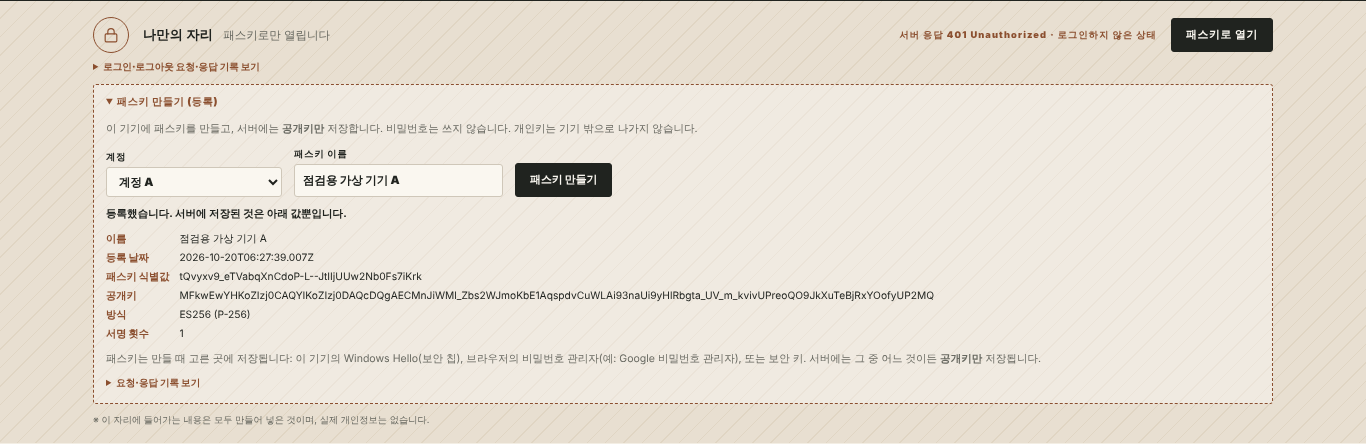
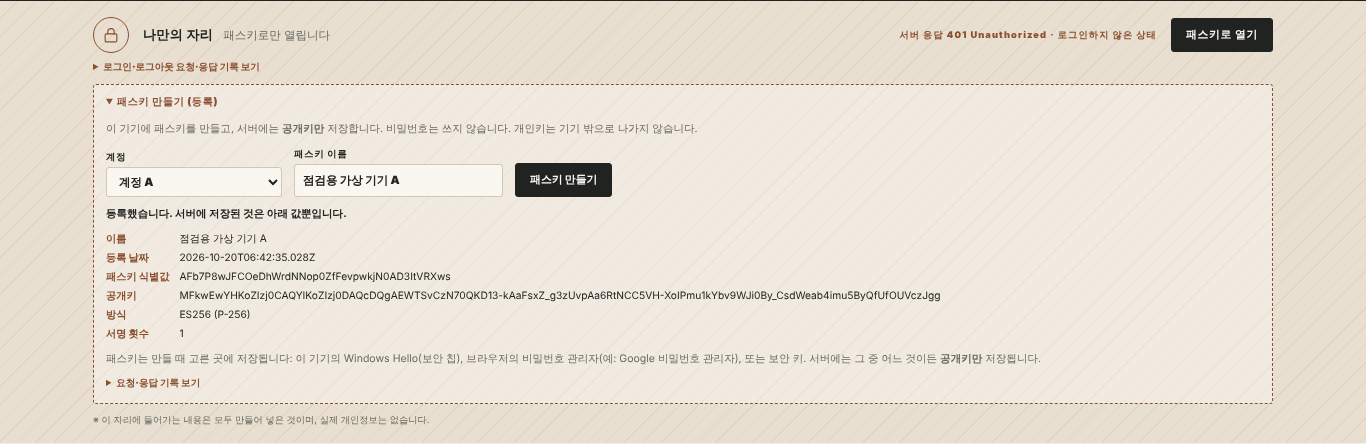
Card 4: passkey list/delete UI, last-passkey rule, local test (20 checks)
Claude-Session: https://claude.ai/code/session_01NF2Pv148mAAi3rFhZJToMv

Changed region(s): [[0.123, 0.6149, 0.7072, 0.6734], [0.1845, 0.5563, 0.246, 0.5856]]

diff --git a/index.html b/index.html
@@ -171,6 +171,13 @@
     .vault-msg{margin:6px 0 0;font-size:.66rem;font-weight:700;color:var(--charcoal)}.vault-msg.err{color:#a14a00}
     .vault-bar{display:flex;flex-wrap:wrap;gap:6px 12px;align-items:center;margin:0 0 4px;font-size:.66rem;color:var(--charcoal)}
     .vault-bar b{font-weight:900;color:var(--brown)}.vault-bar code{font-size:.64rem}.vault-bar .vault-btn{margin-left:auto}
+    .pk-panel{margin:12px 0 0;padding:10px 14px;border:1px solid var(--line);border-radius:3px;background:var(--paper)}
+    .pk-panel h3{margin:0 0 6px;font-size:.62rem;font-weight:900;letter-spacing:.13em;color:var(--brown)}
+    .pk-list{list-style:none;margin:0;padding:0;display:grid;gap:6px}
+    .pk-list li{display:flex;flex-wrap:wrap;gap:4px 12px;align-items:center;font-size:.72rem;padding:6px 0;border-top:1px dashed var(--line)}
+    .pk-list li:first-child{border-top:0}
+    .pk-list b{font-weight:900}.pk-list span{color:var(--muted);font-size:.64rem}.pk-list .vault-btn{margin-left:auto;padding:4px 10px;font-size:.62rem}
+    .pk-note{margin:6px 0 0;font-size:.62rem;color:var(--muted)}
     .reg{margin:10px 0 0;border:1px dashed var(--brown);border-radius:3px;background:rgba(255,255,255,.35);font-size:.7rem}
     .reg>summary{cursor:pointer;padding:8px 12px;font-weight:900;letter-spacing:.06em;font-size:.64rem;color:var(--brown)}
     .reg-body{padding:2px 12px 12px;display:grid;gap:8px}
@@ -405,6 +412,12 @@
         </div>
         <ul class="vault-items" id="vault-items" hidden></ul>
         <details class="reg-log" id="login-log"><summary>로그인·로그아웃 요청·응답 기록 보기</summary><pre id="login-log-pre">아직 요청이 없습니다.</pre></details>
+        <div class="pk-panel" id="pk-panel" hidden>
+          <h3>MY PASSKEYS · 이 계정에 등록된 패스키</h3>
+          <ul class="pk-list" id="pk-list"></ul>
+          <p class="vault-msg" id="pk-msg" role="status"></p>
+          <p class="pk-note">패스키는 최소 1개가 남아야 하므로 마지막 하나는 지울 수 없습니다. 다른 기기·인증 방식으로 하나 더 만들려면 아래 “패스키 만들기”를 쓰세요(로그인한 계정에 추가됩니다).</p>
+        </div>
         <details class="reg" id="reg">
           <summary>패스키 만들기 (등록)</summary>
           <div class="reg-body">
@@ -504,6 +517,7 @@
           const res = await fetch("/api/private/items", { credentials: "same-origin", cache: "no-store", headers: { Accept: "application/json" } });
           if (res.status !== 200) {
             list.replaceChildren(); list.hidden = true; bar.hidden = true; locked.hidden = false;
+            $("pk-panel").hidden = true; $("pk-list").replaceChildren(); { const sel = $("reg-account"); if (sel) sel.disabled = false; }
             status.textContent = ("서버 응답 " + res.status + " " + (res.statusText || "")).trim() + " · 로그인하지 않은 상태";
             return;
           }
@@ -523,9 +537,40 @@
           try { who = await (await fetch("/api/passkey/session", { credentials: "same-origin", cache: "no-store" })).json(); } catch (e) {}
           if (who && who.loggedIn) { $("bar-account").textContent = who.account.label; $("bar-token").textContent = who.token_preview; }
           bar.hidden = false; list.hidden = false; locked.hidden = true;
+          if (who && who.loggedIn) { const sel = $("reg-account"); if (sel) { sel.value = who.account.id; sel.disabled = true; } }
+          await loadPasskeys();
         } catch (e) {
           status.textContent = "서버에 연결하지 못했습니다. 잠금 상태를 유지합니다.";
         }
+      }
+      // 내 패스키 목록(이름·등록 날짜)과 삭제 버튼. 삭제는 한 번 더 눌러야 실행됩니다.
+      async function loadPasskeys() {
+        const panel = $("pk-panel"), ul = $("pk-list"), pmsg = $("pk-msg");
+        try {
+          const res = await fetch("/api/passkey/list", { credentials: "same-origin", cache: "no-store" });
+          if (res.status !== 200) { panel.hidden = true; return; }
+          const data = await res.json();
+          ul.replaceChildren(...data.passkeys.map(k => {
+            const li = document.createElement("li"), nm = document.createElement("b"), dt = document.createElement("span"), idn = document.createElement("span"), btn = document.createElement("button");
+            nm.textContent = k.name;
+            dt.textContent = "등록 " + k.created_at.replace("T", " ").slice(0, 16) + " (UTC)";
+            idn.textContent = "식별값 " + k.credential_id.slice(0, 8) + "…";
+            btn.type = "button"; btn.className = "vault-btn ghost"; btn.textContent = "삭제";
+            let armed = false;
+            btn.addEventListener("click", async () => {
+              if (!armed) { armed = true; btn.textContent = "정말 삭제"; setTimeout(() => { armed = false; btn.textContent = "삭제"; }, 4000); return; }
+              btn.disabled = true;
+              const r = await fetch("/api/passkey/delete", { method: "POST", credentials: "same-origin", headers: { "Content-Type": "application/json" }, body: JSON.stringify({ id: k.id }) });
+              let d = null; try { d = await r.json(); } catch (e) {}
+              pmsg.classList.toggle("err", r.status !== 200);
+              pmsg.textContent = r.status === 200 ? "삭제했습니다: " + d.deleted.name + " (남은 패스키 " + d.remaining + "개)" : ((d && d.message) || ("서버 응답 " + r.status)) + " (서버 응답 " + r.status + ")";
+              await loadPasskeys();
+            });
+            li.append(nm, dt, idn, btn);
+            return li;
+          }));
+          panel.hidden = false;
+        } catch (e) { panel.hidden = true; }
       }
       document.addEventListener("vault-refresh", refresh);
       refresh();
@@ -665,6 +710,7 @@
           const rows = [["이름", s.name], ["등록 날짜", s.created_at], ["패스키 식별값", s.credential_id], ["공개키", s.public_key], ["방식", s.algorithm], ["서명 횟수", String(s.counter)]];
           for (const [k, v] of rows) { const dt = document.createElement("dt"), dd = document.createElement("dd"); dt.textContent = k; dd.textContent = v; stored.append(dt, dd); }
           stored.hidden = false;
+          document.dispatchEvent(new Event("vault-refresh"));
         } catch (e) {
           say("서버에 연결하지 못했습니다.", true);
         } finally { go.disabled = false; }

diff --git a/scripts/test_card4.py b/scripts/test_card4.py
@@ -1,0 +1,141 @@
+#!/usr/bin/env python3
+"""카드 4·5 로컬 점검: 패스키 2개, 목록, 삭제, 삭제한 패스키로 로그인, 마지막 하나 삭제 거절, 다른 계정 삭제·접근 거절.
+결과: evidence/card4/local-test-results.json
+"""
+import base64, json, os, pathlib, subprocess, time, urllib.request, urllib.error
+from playwright.sync_api import sync_playwright
+
+ROOT = pathlib.Path(__file__).resolve().parent.parent
+OUT = ROOT / "evidence" / "card4"; OUT.mkdir(parents=True, exist_ok=True)
+PORT = 3400; BASE = f"http://localhost:{PORT}"
+env = {k: v for k, v in os.environ.items() if not k.startswith("SUPABASE_")}; env["PORT"] = str(PORT)
+srv = subprocess.Popen(["node", "scripts/dev-with-probe.mjs"], cwd=ROOT, env=env, stdout=subprocess.PIPE, stderr=subprocess.STDOUT, text=True)
+time.sleep(1.5)
+checks = []
+def check(name, ok, detail=""):
+    checks.append({"항목": name, "결과": "통과" if ok else "불통과", "내용": detail}); print(("PASS " if ok else "FAIL ") + name, detail)
+def probe(): return json.load(urllib.request.urlopen(f"http://127.0.0.1:{PORT+1}/"))
+def count(): return {k: len(v) for k, v in probe()["credentials"].items()}
+def http(method, path, body=None, cookie=None):
+    h = {"Content-Type": "application/json"}
+    if cookie: h["Cookie"] = cookie
+    req = urllib.request.Request(BASE + path, data=None if body is None else json.dumps(body).encode(), method=method, headers=h)
+    try:
+        r = urllib.request.urlopen(req); return r.status, r.read().decode()
+    except urllib.error.HTTPError as e:
+        return e.code, e.read().decode()
+
+try:
+    with sync_playwright() as p:
+        browser = p.chromium.launch()
+        ctx = browser.new_context(viewport={"width": 1366, "height": 900}, locale="ko-KR")
+        page = ctx.new_page(); cdp = ctx.new_cdp_session(page); cdp.send("WebAuthn.enable")
+        cur = {"id": None}
+        def set_auth(kind, cred_list):
+            """가상 인증 장치를 하나만 켜 둡니다. kind: internal(이 기기) / usb(보안 키). 같은 장치에는 같은 계정의 패스키가 하나만 들어갈 수 있습니다."""
+            if cur["id"]: cdp.send("WebAuthn.removeVirtualAuthenticator", {"authenticatorId": cur["id"]})
+            cur["id"] = cdp.send("WebAuthn.addVirtualAuthenticator", {"options": {"protocol": "ctap2", "transport": kind, "hasResidentKey": True,
+                            "hasUserVerification": True, "isUserVerified": True, "automaticPresenceSimulation": True}})["authenticatorId"]
+            for c in cred_list: cdp.send("WebAuthn.addCredential", {"authenticatorId": cur["id"], "credential": c})
+        def creds(): return cdp.send("WebAuthn.getCredentials", {"authenticatorId": cur["id"]})["credentials"]
+        def uh(c): return base64.b64decode(c["userHandle"]).decode()
+        set_auth("internal", [])
+        page.goto(BASE + "/#private", wait_until="load")
+        page.wait_for_function("document.getElementById('vault-status').textContent.includes('401')")
+
+        def register(account, name):
+            if not page.is_visible("#reg-go"): page.click("#reg > summary")
+            if not page.locator("#reg-account").is_disabled(): page.select_option("#reg-account", account)
+            page.fill("#reg-name", name); page.click("#reg-go")
+            page.wait_for_function("document.getElementById('reg-msg').textContent.startsWith('등록했습니다') || document.getElementById('reg-msg').classList.contains('err')", timeout=15000)
+            return page.inner_text("#reg-msg")
+        def login():
+            page.click("#login-go")
+            page.wait_for_function("document.getElementById('login-msg').textContent.startsWith('로그인했습니다') || document.getElementById('login-msg').classList.contains('err') || document.getElementById('login-msg').textContent.startsWith('취소')", timeout=15000)
+            return page.inner_text("#login-msg")
+
+        check("A 첫 패스키 등록", register("account-a", "A first").startswith("등록했습니다"))
+        check("B 첫 패스키 등록", register("account-b", "B first").startswith("등록했습니다"))
+        saved = {uh(c): c for c in creds()}
+        a_first = saved["account-a"]; b_first = saved["account-b"]
+
+        # 로그인 B
+        set_auth("internal", [b_first])
+        check("B로 로그인", "계정 B" in login())
+        page.wait_for_selector("#pk-panel:not([hidden])")
+        names = page.inner_text("#pk-list")
+        check("목록: 이름과 등록 날짜가 보임(1개)", "B first" in names and "등록 20" in names and page.locator("#pk-list li").count() == 1, names.replace("\n", " | "))
+        check("로그인한 동안 등록 칸의 계정이 고정됨(선택 불가)", page.locator("#reg-account").is_disabled() and page.input_value("#reg-account") == "account-b")
+
+        # 마지막 하나 삭제 거절
+        page.click("#pk-list .vault-btn"); page.click("#pk-list .vault-btn")
+        page.wait_for_function("document.getElementById('pk-msg').textContent.length>0")
+        msg = page.inner_text("#pk-msg")
+        check("마지막 패스키는 삭제 거절(화면 안내)", "마지막" in msg and count()["account-b"] == 1, msg)
+
+        # 같은 계정에 두 번째 패스키: 기기에서 첫 번째 패스키를 치운 상태(=다른 인증 장치)에서 만들고, 첫 번째를 되돌림
+        set_auth("usb", [])   # 다른 인증 장치(보안 키)를 꽂은 상황
+        m = register("account-b", "B second")
+        check("로그인한 상태에서 두 번째 패스키 추가", m.startswith("등록했습니다"), m)
+        b_second = [c for c in creds() if uh(c) == "account-b"][0]
+        page.wait_for_function("document.querySelectorAll('#pk-list li').length===2")
+        names = page.inner_text("#pk-list")
+        check("목록: 2개, 이름과 날짜", "B first" in names and "B second" in names, names.replace("\n", " | "))
+        check("서버에 B 패스키 2건, A 1건", count() == {"account-a": 1, "account-b": 2}, str(count()))
+        page.locator("#private").screenshot(path=str(OUT / "local-two-passkeys.png"))
+
+        # 다른 계정 접근: 로그인한 B가 A의 패스키 id를 지우려는 시도
+        cookie = "aleph_session=" + {c["name"]: c for c in ctx.cookies()}["aleph_session"]["value"]
+        a_id = probe()["credentials"]["account-a"][0]["id"]
+        before = count()
+        s, t = http("POST", "/api/passkey/delete", {"id": a_id}, cookie)
+        check("B가 A의 패스키를 지우려 하면 404, 개수 그대로", s == 404 and count() == before, f"{s} {t[:70]} / {before} → {count()}")
+        s, t = http("GET", "/api/passkey/list?account=account-a", None, cookie)
+        lst = json.loads(t)
+        check("목록 주소에 A를 적어도 B의 목록만 옴", s == 200 and lst["account"]["id"] == "account-b" and len(lst["passkeys"]) == 2)
+        s, t = http("POST", "/api/passkey/delete", {"id": a_id}, None)
+        check("로그인 없이 삭제 요청은 401", s == 401)
+        s, t = http("POST", "/api/passkey/register-options", {"accountId": "account-a", "name": "x"}, cookie)
+        check("로그인한 B가 본문에 account-a를 적어 등록 요청해도 B 계정용 질문(user=account-b)", s == 200 and json.loads(t)["user"]["name"] == "account-b", t[:0])
+
+        # B first 삭제 (화면에서)
+        page.locator("#pk-list li", has_text="B first").locator(".vault-btn").click()
+        page.locator("#pk-list li", has_text="B first").locator(".vault-btn").click()
+        page.wait_for_function("document.querySelectorAll('#pk-list li').length===1")
+        check("화면에서 삭제 → 목록 1개, 서버 B 1건", page.inner_text("#pk-list").count("B second") == 1 and count()["account-b"] == 1, page.inner_text("#pk-msg"))
+
+        # 로그아웃 → 삭제된 B first 로 로그인 시도: 실패
+        page.click("#logout-go"); page.wait_for_selector("#vault-locked", state="visible")
+        set_auth("internal", [b_first])
+        m = login()
+        check("삭제한 패스키(B first)로 로그인하면 거절", "삭제" in m or "등록되어 있지" in m, m)
+        check("거절 후에도 잠김 상태, 자료 요청 401", page.is_visible("#vault-locked") and http("GET", "/api/private/items", None, None)[0] == 401)
+        # 남은 B second 로는 로그인 됨
+        set_auth("usb", [b_second])
+        m = login()
+        check("남은 패스키(B second)로 로그인 성공", "계정 B" in m and "B second" in m, m)
+        page.wait_for_selector("#vault-items:not([hidden])")
+        page.locator("#private").screenshot(path=str(OUT / "local-after-delete-login.png"))
+        # 마지막 하나(B second)도 지우려 하면 거절 = 0개가 되지 않음
+        cookie = "aleph_session=" + {c["name"]: c for c in ctx.cookies()}["aleph_session"]["value"]
+        b_id = probe()["credentials"]["account-b"][0]["id"]
+        s, t = http("POST", "/api/passkey/delete", {"id": b_id}, cookie)
+        check("마지막 하나 삭제는 409, 0개가 되지 않음", s == 409 and count()["account-b"] == 1, f"{s} {t[:60]}")
+
+        # A로도 로그인해서 자료가 다른지 (카드 5)
+        page.click("#logout-go"); page.wait_for_selector("#vault-locked", state="visible")
+        set_auth("internal", [a_first]); m = login()
+        page.wait_for_selector("#vault-items:not([hidden])")
+        txt = page.inner_text("#vault-items")
+        check("A로 로그인하면 A의 자료(보안)만 보임", "계정 A" in m and "ALEPH 대형 과제 정리" in txt and "커피" not in txt)
+        # A가 B의 패스키를 지우려는 시도
+        cookie = "aleph_session=" + {c["name"]: c for c in ctx.cookies()}["aleph_session"]["value"]
+        before = count()
+        s, t = http("POST", "/api/passkey/delete", {"id": b_id}, cookie)
+        check("A가 B의 패스키를 지우려 하면 404, 개수 그대로", s == 404 and count() == before, f"{s}")
+        browser.close()
+finally:
+    srv.terminate()
+(OUT / "local-test-results.json").write_text(json.dumps({"점검": checks}, ensure_ascii=False, indent=1), encoding="utf-8")
+bad = [c for c in checks if c["결과"] != "통과"]
+print(f"\n{len(checks)-len(bad)}/{len(checks)} 통과")
